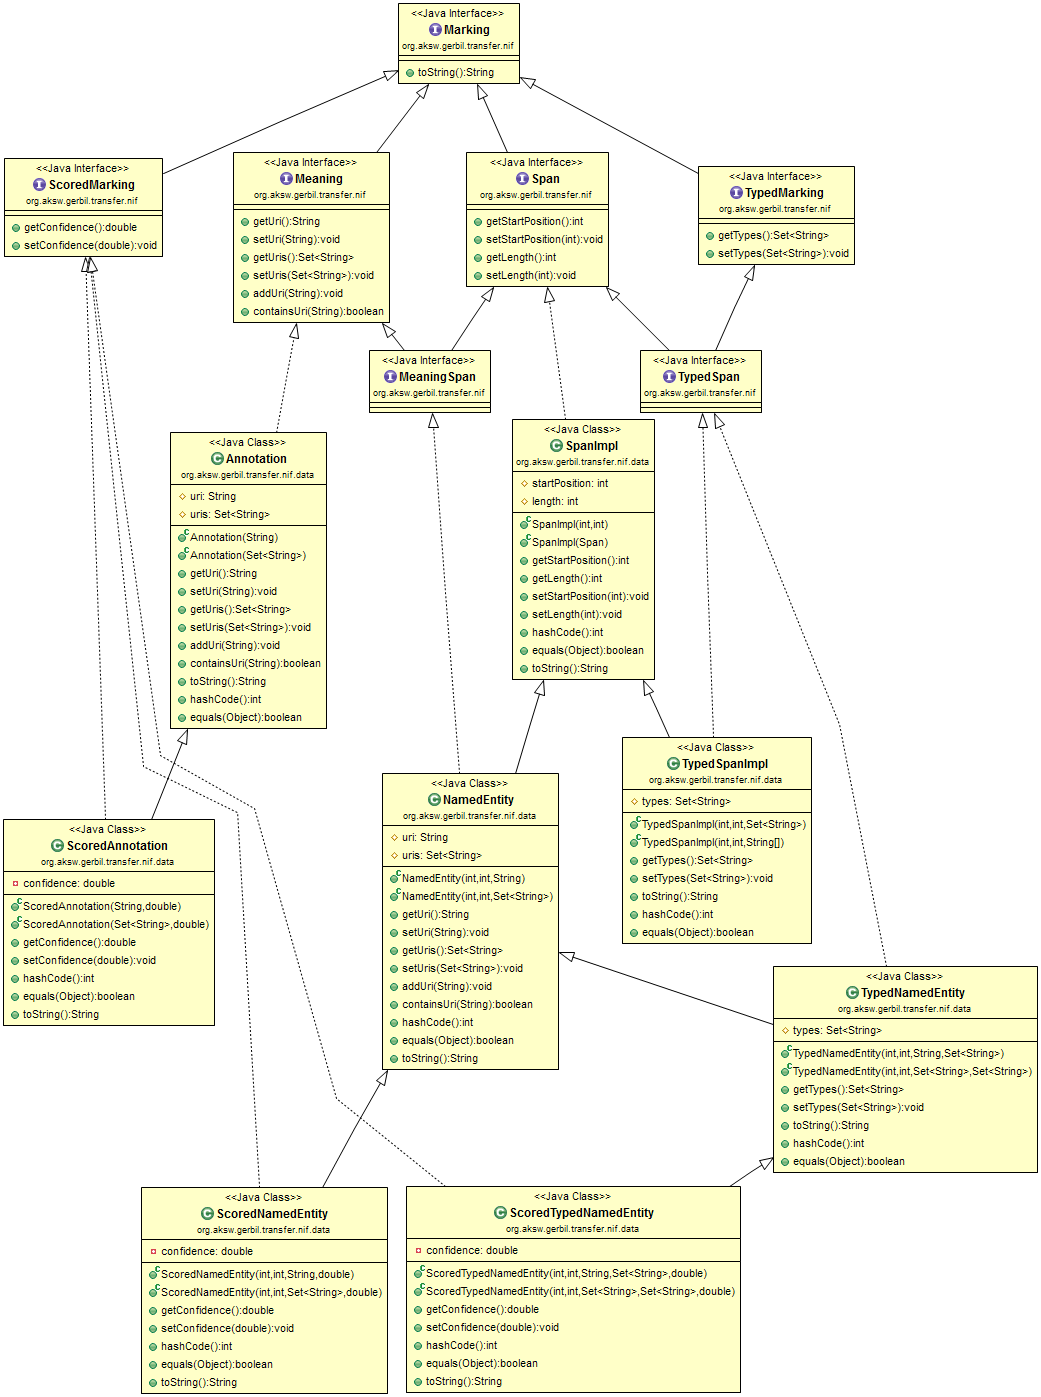
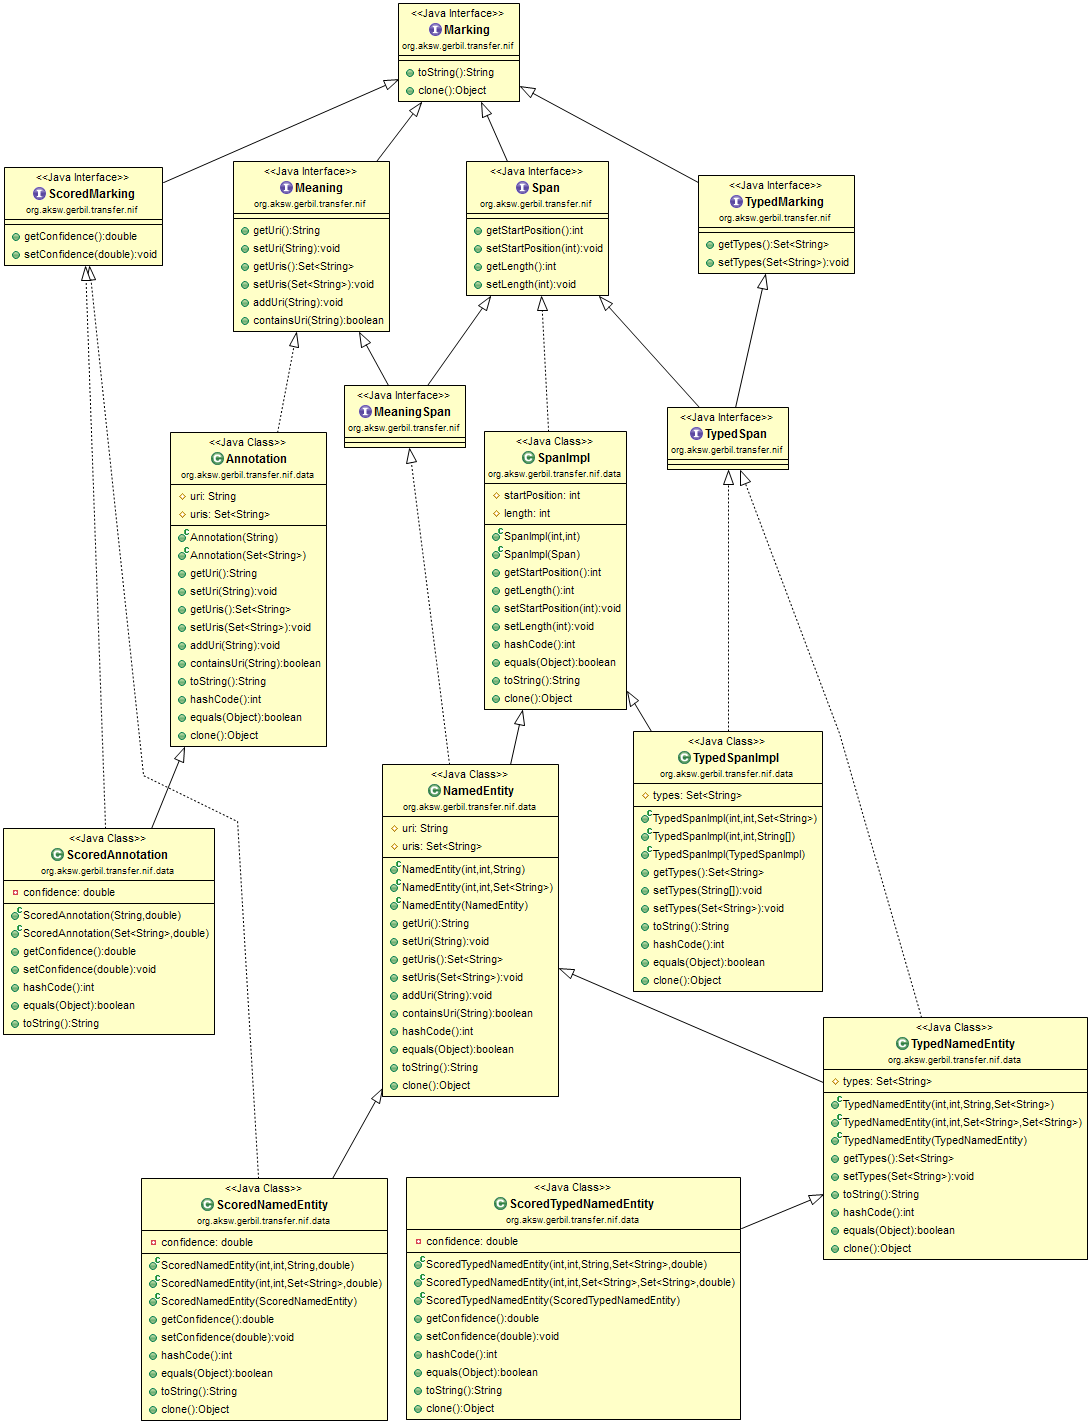
Added clone methods to all implementations of the Marking interface. Implementd a common behaviour regarding Set<String> attributes - the Set is always created during the construction and setUris or setTypes methods clear the existing internal Set and add all given Strings. Fixed two small issues in

Changed region(s): [[0.0, 0.0, 1.0, 1.0], [0.0, 0.0923, 0.1844, 0.2462], [0.0922, 0.277, 0.123, 0.4309]]

diff --git a/src/main/java/org/aksw/gerbil/transfer/nif/data/ScoredSpanImpl.java b/src/main/java/org/aksw/gerbil/transfer/nif/data/ScoredSpanImpl.java
@@ -1,3 +1,19 @@
+/**
+ * This file is part of NIF transfer library for the General Entity Annotator Benchmark.
+ *
+ * NIF transfer library for the General Entity Annotator Benchmark is free software: you can redistribute it and/or modify
+ * it under the terms of the GNU Lesser General Public License as published by
+ * the Free Software Foundation, either version 3 of the License, or
+ * (at your option) any later version.
+ *
+ * NIF transfer library for the General Entity Annotator Benchmark is distributed in the hope that it will be useful,
+ * but WITHOUT ANY WARRANTY; without even the implied warranty of
+ * MERCHANTABILITY or FITNESS FOR A PARTICULAR PURPOSE.  See the
+ * GNU Lesser General Public License for more details.
+ *
+ * You should have received a copy of the GNU Lesser General Public License
+ * along with NIF transfer library for the General Entity Annotator Benchmark.  If not, see <http://www.gnu.org/licenses/>.
+ */
 package org.aksw.gerbil.transfer.nif.data;
 
 import org.aksw.gerbil.transfer.nif.ScoredSpan;
@@ -15,6 +31,10 @@ public class ScoredSpanImpl extends SpanImpl implements ScoredSpan {
     public ScoredSpanImpl(Span span, double confidence) {
         super(span);
         this.confidence = confidence;
+    }
+
+    public ScoredSpanImpl(ScoredSpanImpl scoredSpanImpl) {
+        this(scoredSpanImpl, scoredSpanImpl.getConfidence());
     }
 
     @Override
@@ -61,6 +81,11 @@ public class ScoredSpanImpl extends SpanImpl implements ScoredSpan {
         builder.append(confidence);
         builder.append(')');
         return builder.toString();
+    }
+
+    @Override
+    public Object clone() throws CloneNotSupportedException {
+        return new ScoredSpanImpl(this);
     }
 
 }

diff --git a/src/main/java/org/aksw/gerbil/transfer/nif/data/TypedNamedEntity.java b/src/main/java/org/aksw/gerbil/transfer/nif/data/TypedNamedEntity.java
@@ -17,22 +17,28 @@
 package org.aksw.gerbil.transfer.nif.data;
 
 import java.util.Arrays;
+import java.util.HashSet;
 import java.util.Set;
 
 import org.aksw.gerbil.transfer.nif.TypedSpan;
 
 public class TypedNamedEntity extends NamedEntity implements TypedSpan {
 
-    protected Set<String> types;
+    protected Set<String> types = new HashSet<String>();
 
     public TypedNamedEntity(int startPosition, int length, String uri, Set<String> types) {
         super(startPosition, length, uri);
-        this.types = types;
+        setTypes(types);
     }
 
     public TypedNamedEntity(int startPosition, int length, Set<String> uris, Set<String> types) {
         super(startPosition, length, uris);
-        this.types = types;
+        setTypes(types);
+    }
+
+    public TypedNamedEntity(TypedNamedEntity typedNamedEntity) {
+        super(typedNamedEntity);
+        setTypes(types);
     }
 
     public Set<String> getTypes() {
@@ -40,7 +46,8 @@ public class TypedNamedEntity extends NamedEntity implements TypedSpan {
     }
 
     public void setTypes(Set<String> types) {
-        this.types = types;
+        this.types.clear();
+        this.types.addAll(types);
     }
 
     @Override
@@ -81,6 +88,11 @@ public class TypedNamedEntity extends NamedEntity implements TypedSpan {
         } else if (!types.equals(other.types))
             return false;
         return true;
+    }
+
+    @Override
+    public Object clone() throws CloneNotSupportedException {
+        return new TypedNamedEntity(this);
     }
 
 }

diff --git a/src/main/java/org/aksw/gerbil/transfer/nif/data/TypedSpanImpl.java b/src/main/java/org/aksw/gerbil/transfer/nif/data/TypedSpanImpl.java
@@ -24,24 +24,37 @@ import org.aksw.gerbil.transfer.nif.TypedSpan;
 
 public class TypedSpanImpl extends SpanImpl implements TypedSpan {
 
-    protected Set<String> types;
+    protected Set<String> types = new HashSet<String>();
 
     public TypedSpanImpl(int startPosition, int length, Set<String> types) {
         super(startPosition, length);
-        this.types = types;
+        setTypes(types);
     }
 
     public TypedSpanImpl(int startPosition, int length, String... types) {
         super(startPosition, length);
-        this.types = new HashSet<String>(Arrays.asList(types));
+        setTypes(types);
+    }
+
+    public TypedSpanImpl(TypedSpanImpl typedSpanImpl) {
+        super(typedSpanImpl);
+        setTypes(typedSpanImpl.getTypes());
     }
 
     public Set<String> getTypes() {
         return types;
     }
 
+    public void setTypes(String... types) {
+        this.types.clear();
+        for (int i = 0; i < types.length; ++i) {
+            this.types.add(types[i]);
+        }
+    }
+
     public void setTypes(Set<String> types) {
-        this.types = types;
+        this.types.clear();
+        this.types.addAll(types);
     }
 
     @Override
@@ -80,5 +93,10 @@ public class TypedSpanImpl extends SpanImpl implements TypedSpan {
         } else if (!types.equals(other.types))
             return false;
         return true;
+    }
+
+    @Override
+    public Object clone() throws CloneNotSupportedException {
+        return new TypedSpanImpl(this);
     }
 }

diff --git a/src/main/java/org/aksw/gerbil/transfer/nif/ScoredSpan.java b/src/main/java/org/aksw/gerbil/transfer/nif/ScoredSpan.java
@@ -1,3 +1,19 @@
+/**
+ * This file is part of NIF transfer library for the General Entity Annotator Benchmark.
+ *
+ * NIF transfer library for the General Entity Annotator Benchmark is free software: you can redistribute it and/or modify
+ * it under the terms of the GNU Lesser General Public License as published by
+ * the Free Software Foundation, either version 3 of the License, or
+ * (at your option) any later version.
+ *
+ * NIF transfer library for the General Entity Annotator Benchmark is distributed in the hope that it will be useful,
+ * but WITHOUT ANY WARRANTY; without even the implied warranty of
+ * MERCHANTABILITY or FITNESS FOR A PARTICULAR PURPOSE.  See the
+ * GNU Lesser General Public License for more details.
+ *
+ * You should have received a copy of the GNU Lesser General Public License
+ * along with NIF transfer library for the General Entity Annotator Benchmark.  If not, see <http://www.gnu.org/licenses/>.
+ */
 package org.aksw.gerbil.transfer.nif;
 
 public interface ScoredSpan extends Span, ScoredMarking {

diff --git a/src/test/java/org/aksw/gerbil/transfer/nif/NIFTransferTest.java b/src/test/java/org/aksw/gerbil/transfer/nif/NIFTransferTest.java
@@ -81,10 +81,10 @@ public class NIFTransferTest {
                 Arrays.asList(
                         (Marking) new TypedNamedEntity(0, 7, "http://dbpedia.org/resource/Štvrtok", new HashSet<String>(
                                 Arrays.asList("http://www.aksw.org/notInWiki/Village"))),
-                        (Marking) new TypedNamedEntity(14, 7, new HashSet<String>(Arrays.asList(
+                        (Marking) new TypedNamedEntity(13, 7, new HashSet<String>(Arrays.asList(
                                 "http://www.aksw.org/notInWiki/village")),
                                 new HashSet<String>(Arrays.asList("http://www.aksw.org/notInWiki/Location"))),
-                        (Marking) new ScoredTypedNamedEntity(79, 8, "http://dbpedia.org/resource/Slovakia",
+                        (Marking) new ScoredTypedNamedEntity(80, 8, "http://dbpedia.org/resource/Slovakia",
                                 new HashSet<String>(Arrays.asList("http://www.aksw.org/notInWiki/Country")), 0.25))) });
         return tests;
     }

diff --git a/src/test/java/org/aksw/gerbil/CorpusGenerationExample.java b/src/test/java/org/aksw/gerbil/CorpusGenerationExample.java
@@ -1,3 +1,19 @@
+/**
+ * This file is part of NIF transfer library for the General Entity Annotator Benchmark.
+ *
+ * NIF transfer library for the General Entity Annotator Benchmark is free software: you can redistribute it and/or modify
+ * it under the terms of the GNU Lesser General Public License as published by
+ * the Free Software Foundation, either version 3 of the License, or
+ * (at your option) any later version.
+ *
+ * NIF transfer library for the General Entity Annotator Benchmark is distributed in the hope that it will be useful,
+ * but WITHOUT ANY WARRANTY; without even the implied warranty of
+ * MERCHANTABILITY or FITNESS FOR A PARTICULAR PURPOSE.  See the
+ * GNU Lesser General Public License for more details.
+ *
+ * You should have received a copy of the GNU Lesser General Public License
+ * along with NIF transfer library for the General Entity Annotator Benchmark.  If not, see <http://www.gnu.org/licenses/>.
+ */
 package org.aksw.gerbil;
 
 import java.util.ArrayList;

diff --git a/src/main/java/org/aksw/gerbil/transfer/nif/data/ScoredTypedNamedEntity.java b/src/main/java/org/aksw/gerbil/transfer/nif/data/ScoredTypedNamedEntity.java
@@ -38,6 +38,11 @@ public class ScoredTypedNamedEntity extends TypedNamedEntity implements TypedSpa
         this.confidence = confidence;
     }
 
+    public ScoredTypedNamedEntity(ScoredTypedNamedEntity scoredTypedNamedEntity) {
+        super(scoredTypedNamedEntity);
+        this.confidence = scoredTypedNamedEntity.confidence;
+    }
+
     public double getConfidence() {
         return confidence;
     }
@@ -85,5 +90,10 @@ public class ScoredTypedNamedEntity extends TypedNamedEntity implements TypedSpa
         builder.append(confidence);
         builder.append(')');
         return builder.toString();
+    }
+
+    @Override
+    public Object clone() throws CloneNotSupportedException {
+        return new ScoredTypedNamedEntity(this);
     }
 }

diff --git a/src/main/java/org/aksw/gerbil/transfer/nif/data/ScoredNamedEntity.java b/src/main/java/org/aksw/gerbil/transfer/nif/data/ScoredNamedEntity.java
@@ -37,6 +37,11 @@ public class ScoredNamedEntity extends NamedEntity implements MeaningSpan, Score
         this.confidence = confidence;
     }
 
+    public ScoredNamedEntity(ScoredNamedEntity scoredNamedEntity) {
+        super(scoredNamedEntity);
+        this.confidence = scoredNamedEntity.confidence;
+    }
+
     public double getConfidence() {
         return confidence;
     }
@@ -84,4 +89,8 @@ public class ScoredNamedEntity extends NamedEntity implements MeaningSpan, Score
         return builder.toString();
     }
 
+    @Override
+    public Object clone() throws CloneNotSupportedException {
+        return new ScoredNamedEntity(this);
+    }
 }

diff --git a/src/main/java/org/aksw/gerbil/transfer/nif/data/ScoredAnnotation.java b/src/main/java/org/aksw/gerbil/transfer/nif/data/ScoredAnnotation.java
@@ -42,6 +42,11 @@ public class ScoredAnnotation extends Annotation implements Meaning, ScoredMarki
         this.confidence = confidence;
     }
 
+    public ScoredAnnotation(ScoredAnnotation scoredAnnotation) {
+        super(scoredAnnotation);
+        this.confidence = scoredAnnotation.getConfidence();
+    }
+
     public double getConfidence() {
         return confidence;
     }
@@ -85,4 +90,8 @@ public class ScoredAnnotation extends Annotation implements Meaning, ScoredMarki
         return builder.toString();
     }
 
+    @Override
+    public Object clone() throws CloneNotSupportedException {
+        return new ScoredAnnotation(this);
+    }
 }

diff --git a/src/main/java/org/aksw/gerbil/transfer/nif/data/NamedEntity.java b/src/main/java/org/aksw/gerbil/transfer/nif/data/NamedEntity.java
@@ -40,6 +40,11 @@ public class NamedEntity extends SpanImpl implements MeaningSpan {
         setUris(uris);
     }
 
+    public NamedEntity(NamedEntity namedEntity) {
+        super(namedEntity);
+        setUris(namedEntity.getUris());
+    }
+
     @Deprecated
     @Override
     public String getUri() {
@@ -120,4 +125,8 @@ public class NamedEntity extends SpanImpl implements MeaningSpan {
         return builder.toString();
     }
 
+    @Override
+    public Object clone() throws CloneNotSupportedException {
+        return new NamedEntity(this);
+    }
 }

diff --git a/src/main/java/org/aksw/gerbil/transfer/nif/data/Annotation.java b/src/main/java/org/aksw/gerbil/transfer/nif/data/Annotation.java
@@ -44,6 +44,10 @@ public class Annotation implements Meaning {
         setUris(uris);
     }
 
+    public Annotation(Annotation annotation) {
+        setUris(annotation.getUris());
+    }
+
     @Deprecated
     @Override
     public String getUri() {
@@ -116,4 +120,8 @@ public class Annotation implements Meaning {
         return true;
     }
 
+    @Override
+    public Object clone() throws CloneNotSupportedException {
+        return new Annotation(this);
+    }
 }

diff --git a/src/main/java/org/aksw/gerbil/transfer/nif/Marking.java b/src/main/java/org/aksw/gerbil/transfer/nif/Marking.java
@@ -23,8 +23,10 @@ package org.aksw.gerbil.transfer.nif;
  * @author Michael R&ouml;der (roeder@informatik.uni-leipzig.de)
  * 
  */
-public interface Marking {
+public interface Marking extends Cloneable {
 
     @Override
     public String toString();
+    
+    public Object clone() throws CloneNotSupportedException;
 }
